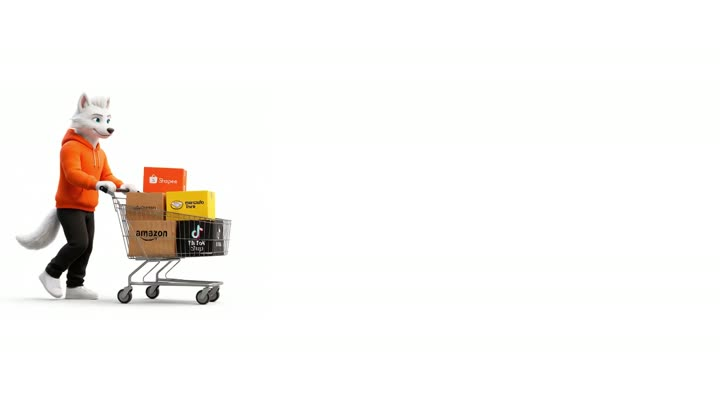
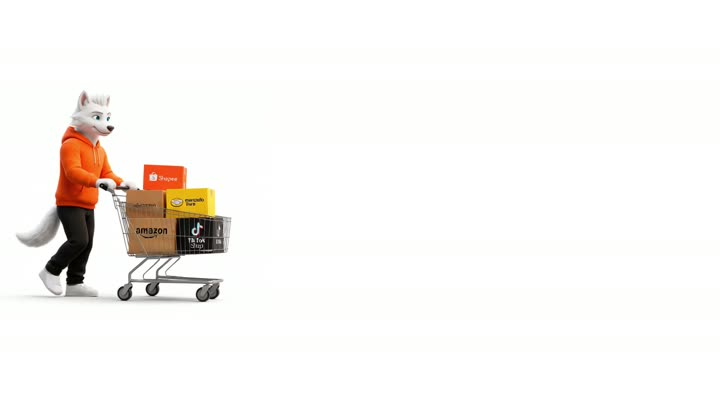
fix: evita filetes nas bordas do video durante animacao no desktop

diff --git a/src/components/CalculatorLoading.tsx b/src/components/CalculatorLoading.tsx
@@ -5,6 +5,7 @@ import './calculator-loading.css';
 export function CalculatorLoading({ onComplete }: { onComplete: () => void }) {
   const root = useRef<HTMLDivElement>(null);
   const video = useRef<HTMLVideoElement>(null);
+  const videoMotion = useRef<HTMLDivElement>(null);
   const icon = useRef<HTMLImageElement>(null);
   const bar = useRef<HTMLDivElement>(null);
   const progress = useRef<HTMLDivElement>(null);
@@ -41,7 +42,7 @@ export function CalculatorLoading({ onComplete }: { onComplete: () => void }) {
         progress.current?.setAttribute('aria-valuenow', String(Math.round(value * 100)));
       });
       exit
-        .fromTo(video.current, { xPercent: 0 }, { xPercent: 100, duration: 1.4, ease: 'power1.in' }, 0)
+        .fromTo(videoMotion.current, { xPercent: 0 }, { xPercent: 100, force3D: false, duration: 1.4, ease: 'power1.in' }, 0)
         .to('.cl-copy > *', { autoAlpha: 0, y: -6, duration: 0.16, stagger: 0.02, ease: 'power2.inOut' }, 1.2)
         .fromTo(icon.current, { autoAlpha: 0, scale: 0.75, y: 12 }, {
           autoAlpha: 1, scale: 1, y: 0, duration: 0.36, ease: 'back.out(1.5)',
@@ -68,8 +69,10 @@ export function CalculatorLoading({ onComplete }: { onComplete: () => void }) {
     <div className="cl-content">
       <div className="cl-visual" aria-hidden="true">
         <div className="cl-video-stage">
-          <video ref={video} className="cl-video" src="/landing/cris-loading.mp4" poster="/landing/cris-loading-poster.jpg"
-            muted playsInline preload="auto" />
+          <div ref={videoMotion} className="cl-video-motion">
+            <video ref={video} className="cl-video" src="/landing/cris-loading.mp4?v=2" poster="/landing/cris-loading-poster.jpg?v=2"
+              muted playsInline preload="auto" />
+          </div>
         </div>
         <div className="cl-icon-stage">
           <img ref={icon} className="cl-calculator-icon" src="/icone-calculadora-hub-animado.webp" alt="" width={512} height={512} />

diff --git a/src/components/calculator-loading.css b/src/components/calculator-loading.css
@@ -8,9 +8,11 @@
   outline: none;
 }
 .cl-content { position: relative; width: min(100%, 720px); text-align: center; }
-.cl-visual { position: relative; width: 100%; aspect-ratio: 720 / 406; max-height: 52svh; }
+.cl-visual { position: relative; width: 100%; aspect-ratio: 720 / 400; max-height: 52svh; }
 .cl-video-stage { position: absolute; inset: 0; overflow: hidden; background: #fff; }
-.cl-video { display: block; width: 100%; height: 100%; object-fit: contain; background: #fff; clip-path: inset(2px); will-change: transform; }
+.cl-video-motion { position: absolute; inset: 0; overflow: hidden; background: #fff; }
+.cl-video-motion::after { content: ''; position: absolute; inset: 0; border: 4px solid #fff; pointer-events: none; }
+.cl-video { position: absolute; top: -4px; left: -4px; display: block; width: calc(100% + 8px); max-width: none; height: calc(100% + 8px); object-fit: cover; background: #fff; }
 .cl-icon-stage { position: absolute; inset: 0; display: grid; place-items: center; pointer-events: none; }
 .cl-calculator-icon { display: block; width: clamp(96px, 20vw, 120px); height: auto; opacity: 0; visibility: hidden; will-change: transform, opacity; }
 .cl-copy { position: absolute; top: calc(100% + 12px); left: 50%; transform: translateX(-50%); width: min(100%, 360px); margin: 0; }
